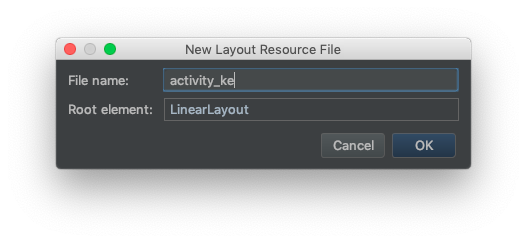
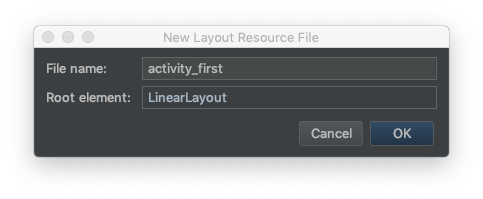
修改Activity名字

Changed region(s): [[0.0621, 0.1206, 0.9317, 0.8141]]

diff --git a/Android/basic/Activity.md b/Android/basic/Activity.md
@@ -3,8 +3,8 @@
 
 # 2. 创建Activity
 ## 2.1 创建一个Activity
-- 首先在需要添加Activity的包名上右击，New→Activity→Empty Activity，在弹出的对话框中，将Activity命名为KeActivity，去除勾选Generate Layout File和Launcher Activity两个选项。
-- 勾选Generate Layout File会自动为KeActivity生成布局文件，勾选Launcher Activity会将当前Activity设置为应用启动的第一个Activity，勾选Backwards Compatibility(AppCompat)，表示向下兼容。
+- 首先在需要添加Activity的包名上右击，New→Activity→Empty Activity，在弹出的对话框中，将Activity命名为FirstActivity，去除勾选Generate Layout File和Launcher Activity两个选项。
+- 勾选Generate Layout File会自动为FirstActivity生成布局文件，勾选Launcher Activity会将当前Activity设置为应用启动的第一个Activity，勾选Backwards Compatibility(AppCompat)，表示向下兼容。
 - 点击Finish完成创建。
 
 ![](https://github.com/ironspf/Summary/blob/master/images/New%20Android%20Activity.png)
@@ -12,7 +12,7 @@
 - 所有的Activity都需要重写Activity的onCreat()方法，代码如下所示：
 
 ```java
-class KeActivity : AppCompatActivity() {
+class FirstActivity : AppCompatActivity() {
   override fun onCreate(savedInstanceState: Bundle?) {
     super.onCreate(savedInstanceState)
   }
@@ -21,7 +21,7 @@ class KeActivity : AppCompatActivity() {
 ## 2.2 创建和加载布局
 
 - 布局文件来控制我们需要显示的内容。
-- 右击app/src/main/res/layout目录→New→Layout resource file，在弹出的对话框中填写文件名为activity_ke，根元素可以选择LinearLayout。
+- 右击app/src/main/res/layout目录→New→Layout resource file，在弹出的对话框中填写文件名为activity_first，根元素可以选择LinearLayout。
 - 点击OK完成创建。
 
 ![](https://github.com/ironspf/Summary/blob/master/images/New%20Layout%20Resource%20File.png)
@@ -53,12 +53,12 @@ class KeActivity : AppCompatActivity() {
 </LinearLayout>
 ```
 - 将布局文件加载到Activity中
-在KeActivity中添加如下代码：
+在FirstActivity中添加如下代码：
 ```java
-class KeActivity : AppCompatActivity() {
+class FirstActivity : AppCompatActivity() {
   override fun onCreate(savedInstanceState: Bundle?) {
     super.onCreate(savedInstanceState)
-    setContentView(R.layout.activity_ke)
+    setContentView(R.layout.activity_first)
   }
 }
 ```
@@ -76,7 +76,7 @@ class KeActivity : AppCompatActivity() {
     android:roundIcon="@mipmap/ic_launcher_round"
     android:supportsRtl="true"
     android:theme="@style/AppTheme">
-    <activity android:name=".activity.KeActivity"></activity>
+    <activity android:name=".activity.FirstActivity"></activity>
   </application>
 </manifest>
 ```
@@ -94,7 +94,7 @@ class KeActivity : AppCompatActivity() {
     android:roundIcon="@mipmap/ic_launcher_round"
     android:supportsRtl="true"
     android:theme="@style/AppTheme">
-    <activity android:name=".activity.KeActivity">
+    <activity android:name=".activity.FirstActivity">
       <intent-filter>
         <action android:name="android.intent.action.MAIN" />
         <category android:name="android.intent.category.LAUNCHER" />
@@ -105,19 +105,76 @@ class KeActivity : AppCompatActivity() {
 ```
 ## 2.4启动Activity
 以上准备工具已经完成，只需要点击Androidstudio中的Run按钮，就会启动我们刚刚写创建的Activity，运行后的界面如下所示。
-![]()
+![](https://github.com/ironspf/Summary/blob/master/images/Hello%20Beike.png)
 
 # 3. 设置点击事件
+设置点击事件可以分为两种方式：添加匿名内部类和实现View.OnClickListener接口并重写其中的onClick(v: View?)函数。
+<p>给上面的Button添加一个点击事件，当被点击时提示内容“我被点击了！”</p>
+- 匿名内部类方式
 
+```java
+class FirstActivity : AppCompatActivity(){
+
+  private lateinit var mBtnFirst: Button
+
+  override fun onCreate(savedInstanceState: Bundle?) {
+    super.onCreate(savedInstanceState)
+    setContentView(R.layout.activity_first)
+    initView()
+  }
+
+  private fun initView(){
+    mBtnFirst = findViewById(R.id.btn_first)
+
+    mBtnFirst.setOnClickListener(object: View.OnClickListener{
+      override fun onClick(v: View?) {
+        Toast.makeText(this@FirstActivity, "我被点击了！", Toast.LENGTH_SHORT).show()
+      }
+    })
+  }
+
+}
+```
+
+- 实现接口方式
+
+```java
+class FirstActivity : AppCompatActivity(), View.OnClickListener{
+
+  private lateinit var mBtnFirst: Button
+
+  override fun onCreate(savedInstanceState: Bundle?) {
+    super.onCreate(savedInstanceState)
+    setContentView(R.layout.activity_first)
+    initView()
+  }
+
+  private fun initView(){
+    mBtnFirst = findViewById(R.id.btn_first)
+    mBtnFirst.setOnClickListener(this)
+  }
+
+  override fun onClick(v: View?) {
+    when(v?.id){
+      R.id.btn_first -> {
+        Toast.makeText(this@FirstActivity, "我被点击了！", Toast.LENGTH_SHORT).show()
+      }
+    }
+  }
+
+}
+```
 
 # 4. 销毁Activity
-
+销毁一个Activity就不像创建一个Activity那么复杂了，只需要在销毁的时候调用Activity类的finish()函数即可，便会关闭当前页面。
 
 # 5. Activity之间传递数据
+一个应用不可能只包含一个页面（Activity），那么当存在多个Activity时，它们之间是如何切换的呢？其实，前一个Activity可以通过某种方式来启动后一个Activity，前一个Activity可以向后一个Activity传递数据，同样后一个Activity也可以向前一个Activity回传数据。
 
 ## 5.1 启动Activity
 
 - 显示启动
+
 - 隐示启动
 
 ## 5.2 向下一个Activity传递数据
